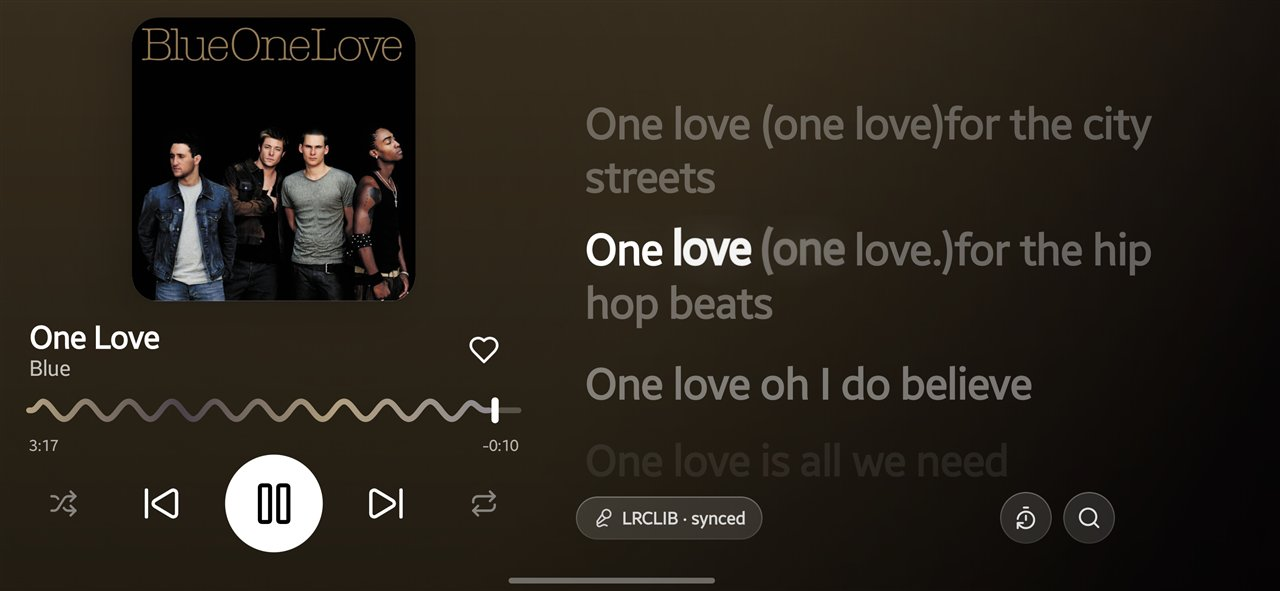
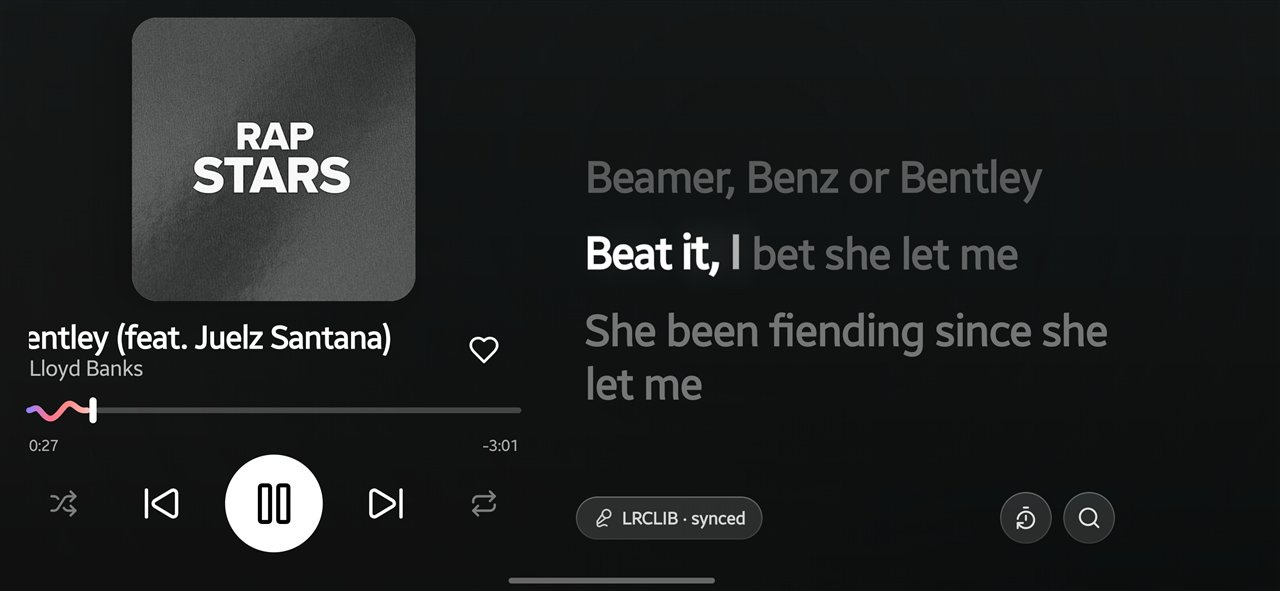
README: new-look landscape screenshots
Landscape Home (sky edge to edge, liquid volt tab bar; name, photo, city and
playlist names painted out), landscape visualizer with the Visualizer/Lyrics
switch and cast button, and voice-driven landscape lyrics.

diff --git a/README.md b/README.md
@@ -24,8 +24,11 @@ After that, Sonora **updates itself**: it checks this page for new releases and 
   <img src="docs/screenshots/enhance.jpg" width="19%" alt="Sonora Enhance and audiophile settings">
 </p>
 <p>
-  <img src="docs/screenshots/landscape-visualizer.jpg" width="49%" alt="Landscape player with the Wireframe visualizer across the page">
-  <img src="docs/screenshots/landscape-lyrics.jpg" width="49%" alt="Landscape lyrics on the album-colour sky">
+  <img src="docs/screenshots/landscape-home.jpg" width="98%" alt="Home sideways: the sky edge to edge, a kite in flight and the liquid volt tab bar">
+</p>
+<p>
+  <img src="docs/screenshots/landscape-visualizer.jpg" width="49%" alt="Landscape player: Neon Orb visualizer with the Visualizer / Lyrics switch">
+  <img src="docs/screenshots/landscape-lyrics.jpg" width="49%" alt="Landscape lyrics, the sung word lifted by the singer's voice">
 </p>
 
 ## Features
